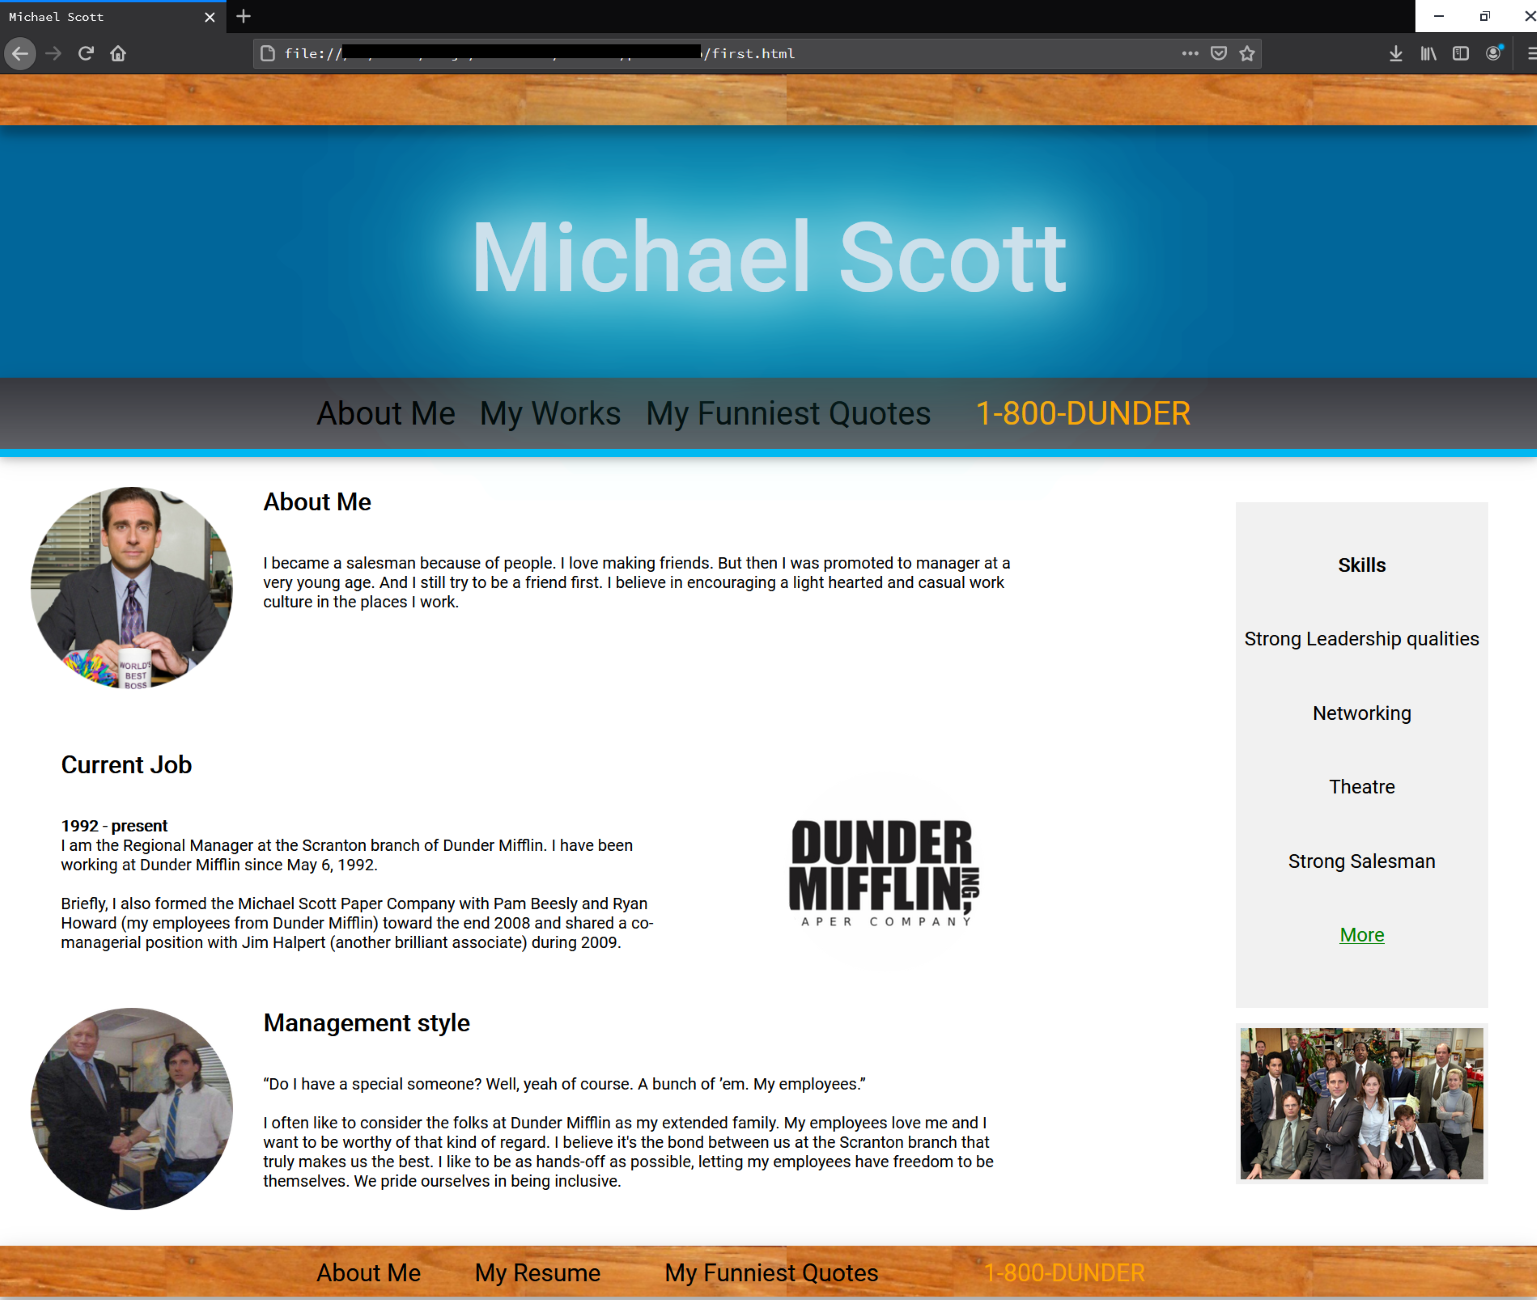
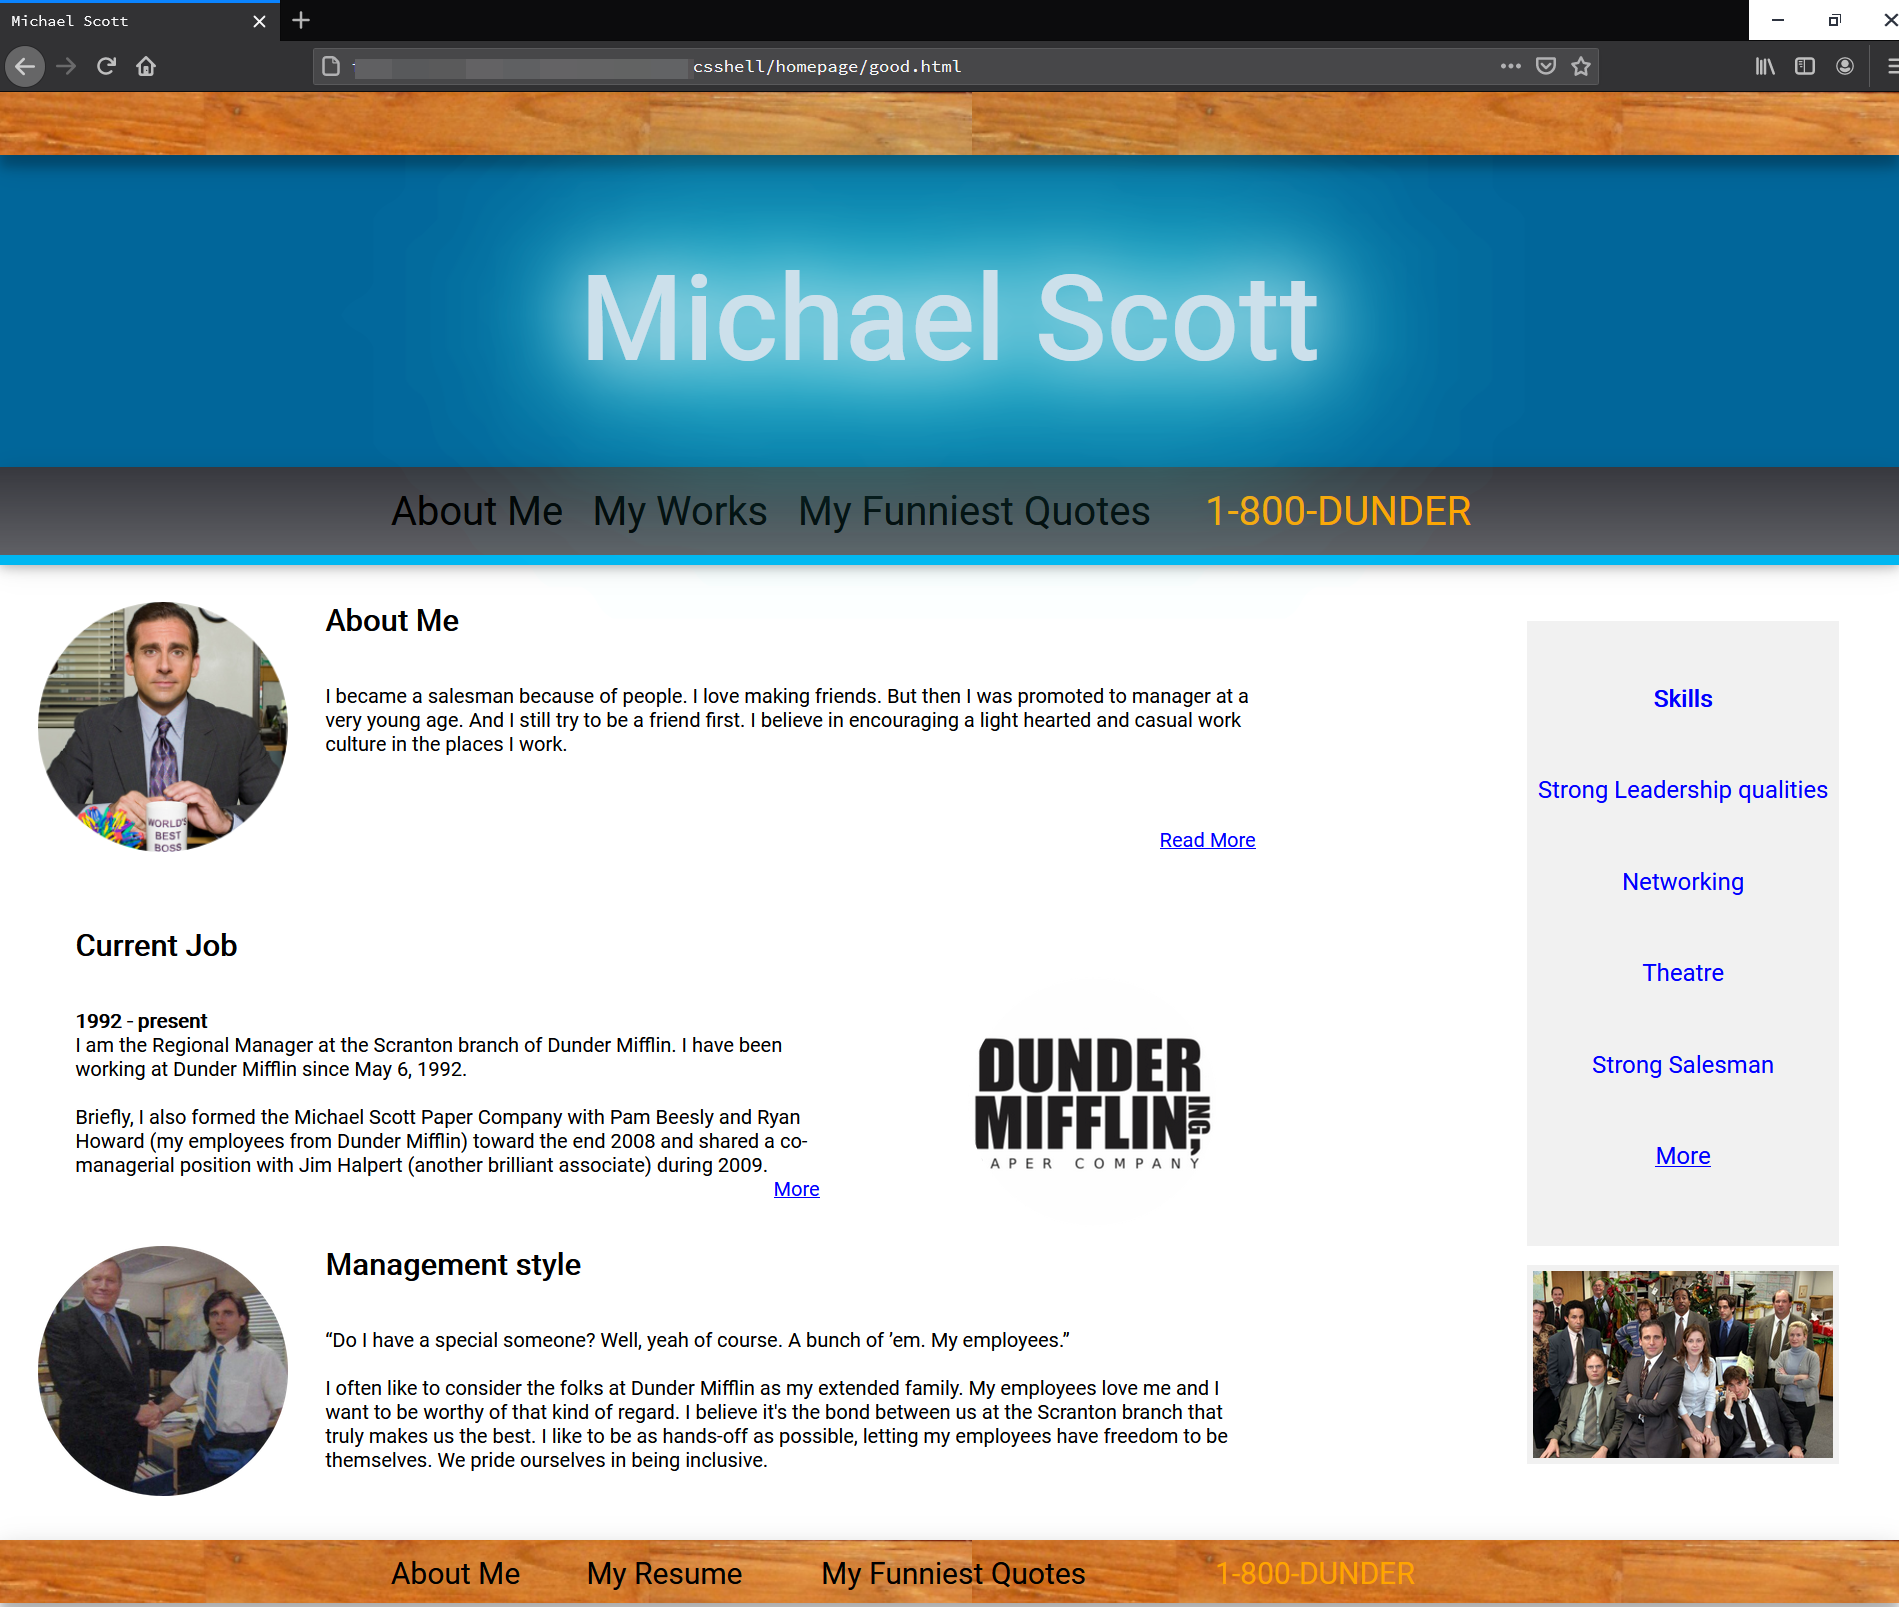
Final touches

diff --git a/homepage/good.html b/homepage/good.html
@@ -33,6 +33,9 @@
       I became a salesman because of people. I love making friends. But then I was promoted to manager at a very young age. And I still try to be a friend first.
 
       I believe in encouraging a light hearted and casual work culture in the places I work.
+      <br><br>
+      <br><br>
+      <p style="text-align: right; text-decoration: underline; color:blue"> Read More </p>
 </div>
     <div class ="text1 text2">
       <h2> Current Job</h2>
@@ -42,6 +45,8 @@
       <br><br>
 
       <p>  Briefly, I also formed the Michael Scott Paper Company with Pam Beesly and Ryan Howard (my employees from Dunder Mifflin) toward the end 2008 and shared a co-managerial position with Jim Halpert (another brilliant associate) during 2009.
+
+      <p style="text-align: right; text-decoration: underline; color:blue"> More </p>
       <div class="fig fig2"></div>
     </div>
     <div class="sidebar">

diff --git a/homepage/first.css b/homepage/first.css
@@ -159,6 +159,7 @@ td:hover{
   padding-top:20%;
   font-size: 1.2em;
   text-align: center;
+  color: blue;
 
 }
 .sidebar>p:hover
@@ -172,7 +173,6 @@ td:hover{
 
 .sidebar>p:nth-last-child(1)
 {
-  color: green;
   text-decoration: underline;
 }
 
